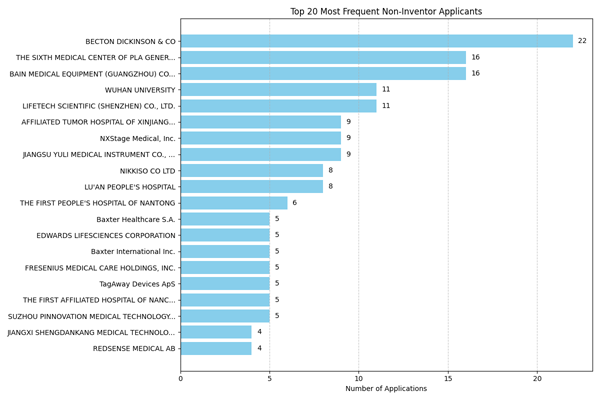
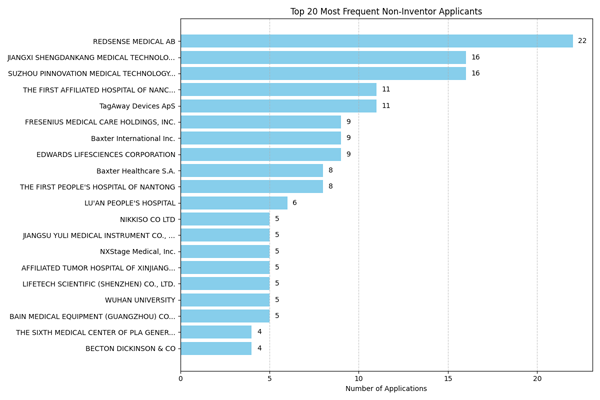
Additional analysis applicants prarallel coords

Changed region(s): [[0.0, 0.42, 0.3, 0.9], [0.0, 0.09, 0.3, 0.39]]

diff --git a/templates/home.html b/templates/home.html
@@ -43,6 +43,7 @@
     <br>
        <p style="font-size: 1.2em; line-height: 1.6;">
         This website is still under development, so for now, there is no need to log in to access advanced features. 
+        Please be patient with the generation time of the figures, currently, this web uses only basic cloud resources.
         In future versions, signing up will allow users to save their searches and prevent the automatic deletion of generated graphics.
         </p>
   </div>
@@ -81,19 +82,20 @@
 
     <!-- Word frequency stats Wordclouds -->
     <h3 style="margin-top: 2em; font-size: 1.5em;">Word frequency statistics: Wordclouds</h3>
+    <div style="display: flex; flex-wrap: wrap; gap: 1em;">
       <div style="flex: 1 1 48%;">
         <img src="{% static 'images/wcld_nouns_r.png' %}" alt="Noun Wordcloud"
-             style="width: 100%; border: 1px solid #ccc; border-radius: 6px;">
+             style="width: 90%; border: 1px solid #ccc; border-radius: 6px;">
         <p style="text-align: center;">Wordcloud (Nouns)</p>
       </div>
       <div style="flex: 1 1 48%;">
         <img src="{% static 'images/wcld_verbs_r.png' %}" alt="Verb Wordcloud"
-             style="width: 100%; border: 1px solid #ccc; border-radius: 6px;">
+             style="width: 90%; border: 1px solid #ccc; border-radius: 6px;">
         <p style="text-align: center;">Wordcloud (Verbs)</p>
       </div>
       <div style="flex: 1 1 48%;">
         <img src="{% static 'images/wcld_adjectives_r.png' %}" alt="Adjective Wordcloud"
-             style="width: 100%; border: 1px solid #ccc; border-radius: 6px;">
+             style="width: 70%; border: 1px solid #ccc; border-radius: 6px;">
         <p style="text-align: center;">Wordcloud (Adjectives)</p>
       </div>
     </div>
@@ -118,19 +120,26 @@
         <p style="text-align: center;">Top 20 Applicants</p>
       </div>
       <div style="flex: 1 1 48%;">
+    <div style="display: flex; flex-wrap: wrap; gap: 1em;">
+      <div style="flex: 1 1 48%;">
+        <img src="{% static 'images/Applicants_parallel_r.png' %}" alt="Top 5 Applicants timeline"
+             style="width: 100%; border: 1px solid #ccc; border-radius: 6px;">
+        <p style="text-align: center;">Top 5 Applicants patent publication timeline</p>
+      </div>
         <img src="{% static 'images/TopAppl_IPC_r.png' %}" alt="Most frequent IPC groups by Applicant"
              style="width: 100%; border: 1px solid #ccc; border-radius: 6px;">
         <p style="text-align: center;">Most frequent IPC groups by Applicant</p>
       </div>
-
+    </div>
 
     <!-- Tech Transfer Landscape -->
-    <h3 style="margin-top: 2em; font-size: 1.5em;">Tech Transfer Landscape</h3>
+    <h3 style="margin-top: 2em; font-size: 1.5em;">Technology Transfer Landscape</h3>
     <div style="display: flex; flex-wrap: wrap; gap: 1em;">
       <div style="flex: 1 1 48%;">
-        <img src="{% static 'images/network_plot_r.png' %}" alt="Inventor Transfer Network"
+        <img src="{% static 'images/network_plot.png' %}" alt="Inventor Transfer Network"
              style="width: 100%; border: 1px solid #ccc; border-radius: 6px;">
-        <p style="text-align: center;">Inventor movement between applicants</p>
+        <p style="text-align: center;">Flow of Technological Know-How Through Shared Inventors</p>
+        <p style="text-align: center;">Applicants in the graph may have further connections out of this circle</p>
       </div>
     </div>
   </div>

diff --git a/templates/pages/IPC_Applicants.html b/templates/pages/IPC_Applicants.html
@@ -33,6 +33,11 @@
     <img src="{{ topAppl_img }}" alt="Top 20 Applicants">
   {% endif %}
   <br>
+  {% if ParalleltopApp_img %}
+    <h2>Top Applicants most number of fillings per year</h2>
+    <img src="{{ ParalleltopApp_img }}" alt="TTop Applicants most number of fillings per year" style="max-width: 100%; height: auto;">
+  {% endif %}
+  <br>
   <br>
   {% if Appl_IPC_img %}
     <h2>Top Applicants most frequent IPC groups under which the patent documents are classified</h2>

diff --git a/pages/analytic_functions.py b/pages/analytic_functions.py
@@ -21,6 +21,7 @@ import networkx as nx
 import io
 from matplotlib.figure import Figure
 from matplotlib.backends.backend_agg import FigureCanvasAgg
+from fuzzywuzzy import fuzz
 
 #Import English stopwords from the nltk repository downloaded to the hard drive
 nltk.data.path.append("/usr/share/nltk_data")
@@ -507,7 +508,7 @@ class Patent_Analysis:
         Returns:
             A matplotlib figure showing top non-inventor applicants
         """
-        from fuzzywuzzy import fuzz
+        
         from collections import defaultdict
     
         # Create a list to hold all non-inventor applicants and their IPC codes
@@ -590,28 +591,26 @@ class Patent_Analysis:
         
         # Get the top N applicant groups by count
         self.top_applicants = sorted(group_counts.items(), key=lambda x: x[1], reverse=True)[:top_n]
-        # Extract names and counts for plotting
-        names = [name for name, _ in self.top_applicants]
-        counts = [count for _, count in self.top_applicants]
+        # Split names and counts
+        names, counts = zip(*self.top_applicants)
         
-        # Create the bar plot
+        # Reverse for horizontal bar chart (most frequent at top)
+        names = names[::-1]
+        counts = counts[::-1]
+        
+        # Plot
         plt.figure(figsize=(12, 8))
-        bars = plt.barh(np.arange(len(names))[::-1], counts, color='skyblue')
+        bars = plt.barh(np.arange(len(names)), counts, color='skyblue')
         
-        # Add count labels to the bars
+        # Add count labels
         for i, bar in enumerate(bars):
             plt.text(bar.get_width() + 0.3, bar.get_y() + bar.get_height()/2, 
                      str(counts[i]), va='center')
         
-        # Truncate long company names for display
-        display_names = []
-        for name in names:
-            if len(name) > 40:
-                display_names.append(name[:37] + '...')
-            else:
-                display_names.append(name)
+        # Truncate long names for display (optional)
+        display_names = [name if len(name) <= 40 else name[:37] + '...' for name in names]
         
-        # Set labels and title
+        # Format plot
         plt.yticks(np.arange(len(display_names)), display_names)
         plt.xlabel('Number of Applications')
         plt.title(f'Top {top_n} Most Frequent Non-Inventor Applicants')
@@ -620,33 +619,106 @@ class Patent_Analysis:
         
         # Return the figure
         return plt
-     
+        
+
+    def plot_applicant_parallel_coordinates(self, top_n=10, year_range=None):
+        """Create parallel coordinates plot for top non-inventor applicants showing absolute publication counts by year."""
+        if year_range is None:
+            current_year = datetime.now().year
+            year_range = (current_year - 20, current_year)     
+            
+        # Get top applicants if not already calculated
+        if not hasattr(self, 'top_applicants'):
+            self.get_top_non_inventor_applicants(top_n=top_n)
+        
+        sorted_applicants = sorted(self.top_applicants, key=lambda x: x[1], reverse=True)[:top_n]
+        top_applicants = [name for name, _ in sorted_applicants]
+        
+        # Filter publication years
+        all_years = sorted(self.filtered_data['PubYear'].dropna().unique().astype(int))
+        
+        if year_range:
+            start_year, end_year = year_range
+            all_years = [year for year in all_years if start_year <= year <= end_year]
+            if not all_years:
+                raise ValueError(f"No data available in the specified year range: {year_range}")
+    
+        # Create dataframe to hold counts
+        applicant_yearly_counts = pd.DataFrame(index=top_applicants, columns=all_years, data=0)
+        
+        # Count publications per applicant and year
+        for applicant in top_applicants:
+            applicant_patents = self.filtered_data[
+                self.filtered_data['Applicants'].str.contains(applicant, case=False, na=False)
+            ]
+            # Apply year range filter
+            if year_range:
+                applicant_patents = applicant_patents[
+                    applicant_patents['PubYear'].between(start_year, end_year)
+                ]
+            
+            yearly_counts = applicant_patents['PubYear'].value_counts().astype(int)
+            for year, count in yearly_counts.items():
+                if year in applicant_yearly_counts.columns:
+                    applicant_yearly_counts.at[applicant, year] = count
+        
+        # Plot
+        fig, host = plt.subplots(figsize=(15, 10))
+        colors = plt.cm.tab10.colors
+        
+        for i, applicant in enumerate(top_applicants):
+            data = applicant_yearly_counts.loc[applicant].values
+            x = np.linspace(0, len(all_years) - 1, len(all_years))
+            
+            verts = [(x[0], data[0])]
+            codes = [Path.MOVETO]
+            for j in range(1, len(x)):
+                x0, y0 = x[j - 1], data[j - 1]
+                x1, y1 = x[j], data[j]
+                ctrl1 = (x0 + (x1 - x0) / 3, y0)
+                ctrl2 = (x0 + 2 * (x1 - x0) / 3, y1)
+                verts.extend([ctrl1, ctrl2, (x1, y1)])
+                codes.extend([Path.CURVE4, Path.CURVE4, Path.CURVE4])
+            
+            path = Path(verts, codes)
+            patch = patches.PathPatch(path, facecolor='none', lw=3, edgecolor=colors[i % len(colors)], alpha=0.8)
+            host.add_patch(patch)
+
+
+
     def plot_applicant_ipc_bubble_chart(self, top_n=20):
         """
-        Plots a bubble chart of the top applicants and their IPC groups.
+        Plots a bubble chart of the top applicants and their IPC groups using fuzzy name matching.
     
         Args:
             top_n: Number of top applicants to display (default: 20)
         """
         # Get the top applicants
-        #self.get_top_non_inventor_applicants(top_n=top_n)
         top_applicants = self.top_applicants
+        top_names = [name for name, _ in top_applicants]
     
         # Create a dictionary to store IPC counts for each applicant
-        applicant_ipc_counts = {applicant: Counter() for applicant, _ in top_applicants}
+        applicant_ipc_counts = {applicant: Counter() for applicant in top_names}
     
-        # Count IPC groups for each applicant
+        # Count IPC groups for each applicant (with fuzzy matching)
         for _, row in self.filtered_data.iterrows():
             applicants = str(row['Applicants']) if not pd.isna(row['Applicants']) else ""
             ipc_codes = str(row['I P C']) if not pd.isna(row['I P C']) else ""
     
-            # Split by semicolons and strip whitespace
             applicant_list = [app.strip() for app in applicants.split(';') if app.strip()]
             ipc_list = [ipc.strip()[:4] for ipc in ipc_codes.split(';') if ipc.strip()]
     
             for applicant in applicant_list:
-                if applicant in applicant_ipc_counts:
-                    applicant_ipc_counts[applicant].update(ipc_list)
+                matched_applicant = None
+                max_score = 0
+                for known_applicant in top_names:
+                    score = fuzz.token_sort_ratio(applicant, known_applicant)
+                    if score > 75 and score > max_score:
+                        matched_applicant = known_applicant
+                        max_score = score
+    
+                if matched_applicant:
+                    applicant_ipc_counts[matched_applicant].update(ipc_list)
     
         # Get the top 20 IPC groups
         all_ipcs = []
@@ -665,15 +737,17 @@ class Patent_Analysis:
                     if max_count > 1:
                         color = plt.cm.coolwarm((count - 1) / (max_count - 1))
                     else:
-                        color = 'blue'  # Default color if max_count is 1
+                        color = 'blue'
                     plt.scatter(ipc, applicant, s=size, color=color, alpha=0.8, edgecolors='w')
     
         plt.xlabel('IPC Groups')
         plt.ylabel('Applicants')
-        plt.title('Bubble Chart of Top Applicants and IPC Groups')
+        plt.title('Bubble Chart of Top Applicants and IPC Groups (bubble color is warmer and size bigger when higher count)')
         plt.grid(True)
+        plt.gca().invert_yaxis()
         plt.tight_layout()
         return plt
+
 
 
 
@@ -753,7 +827,102 @@ class Patent_Analysis:
         plt.tight_layout()
         return plt
 
-
+    def plot_applicant_parallel_coordinates(self, top_n=10, year_range=None):
+        """Create parallel coordinates plot for top non-inventor applicants showing normalized publication counts by year."""
+        if year_range is None:
+            current_year = datetime.now().year
+            year_range = (current_year - 20, current_year)
+    
+        start_year, end_year = year_range
+    
+        # Ensure 'PubYear' is in integer format
+        self.filtered_data['PubYear'] = pd.to_numeric(self.filtered_data['PubYear'], errors='coerce').dropna().astype(int)
+    
+        # Get top applicants if not already calculated
+        if not hasattr(self, 'top_applicants'):
+            self.get_top_non_inventor_applicants(top_n=top_n)
+    
+        # Sort applicants by count and take top_n
+        sorted_applicants = sorted(self.top_applicants, key=lambda x: x[1], reverse=True)[:top_n]
+        top_applicants = [name for name, _ in sorted_applicants]
+    
+        # Filter years
+        all_years = sorted([year for year in self.filtered_data['PubYear'].unique() if start_year <= year <= end_year])
+        if not all_years:
+            raise ValueError("No valid publication years in the selected range")
+    
+        # Initialize dataframe with zeros
+        applicant_yearly_counts = pd.DataFrame(index=top_applicants, columns=all_years, data=0)
+    
+        # Count publications for each applicant by year using fuzzy match (≥75%)
+        for applicant in top_applicants:
+            matching_rows = self.filtered_data[
+                self.filtered_data['Applicants'].fillna('').apply(
+                    lambda x: fuzz.partial_ratio(x.lower(), applicant.lower()) >= 75
+                )
+            ]
+            yearly_counts = matching_rows['PubYear'].value_counts().astype(int)
+            for year, count in yearly_counts.items():
+                if year in applicant_yearly_counts.columns:
+                    applicant_yearly_counts.at[applicant, year] = count
+    
+        # Normalize counts per applicant between 0 and 1
+        normalized_counts = applicant_yearly_counts.div(applicant_yearly_counts.max(axis=1), axis=0).fillna(0)
+    
+        # Plotting
+        fig, host = plt.subplots(figsize=(15, 10))
+        colors = plt.cm.tab10.colors
+    
+        for i, applicant in enumerate(top_applicants):
+            data = normalized_counts.loc[applicant].values.astype(float)
+            x = np.linspace(0, len(all_years) - 1, len(all_years))
+    
+            # Bezier curve
+            verts = [(x[0], data[0])]
+            codes = [Path.MOVETO]
+            for j in range(1, len(x)):
+                x0, y0 = x[j - 1], data[j - 1]
+                x1, y1 = x[j], data[j]
+                ctrl1 = (x0 + (x1 - x0) / 3, y0)
+                ctrl2 = (x0 + 2 * (x1 - x0) / 3, y1)
+                verts.extend([ctrl1, ctrl2, (x1, y1)])
+                codes.extend([Path.CURVE4, Path.CURVE4, Path.CURVE4])
+    
+            path = Path(verts, codes)
+            patch = patches.PathPatch(path, facecolor='none', lw=3, edgecolor=colors[i % len(colors)], alpha=0.8)
+            host.add_patch(patch)
+    
+        # Axis and labels
+        host.set_xlim(0, len(all_years) - 1)
+        host.set_ylim(0, 1.05)
+        host.set_xticks(range(len(all_years)))
+        host.set_xticklabels(all_years, fontsize=10, rotation=45)
+        host.set_title(f'Top {top_n} Non-Inventor Applicants by Normalized Publication Count', fontsize=16, pad=20)
+        host.set_xlabel('Publication Year', fontsize=12)
+        host.set_ylabel('Normalized Publication Count (0–1)', fontsize=12)
+        host.grid(True, linestyle='--', alpha=0.6)
+    
+        # Legend
+        plt.subplots_adjust(right=0.7)
+        legend_entries = []
+        for i, (applicant, count) in enumerate(sorted_applicants):
+            display_name = applicant if len(applicant) <= 30 else applicant[:27] + '...'
+            legend_entries.append(f"{display_name} (Total: {count})")
+    
+        legend_patches = [
+            patches.Patch(color=colors[i % len(colors)], label=legend_entries[i])
+            for i in range(len(legend_entries))
+        ]
+    
+        host.legend(handles=legend_patches,
+                    title='Applicants with Total Publications',
+                    bbox_to_anchor=(1.05, 1),
+                    loc='upper left',
+                    borderaxespad=0.,
+                    fontsize=10)
+    
+        plt.tight_layout()
+        return plt
 
 
 class Patent_Network:

diff --git a/pages/views.py b/pages/views.py
@@ -247,6 +247,15 @@ class IPC_ApplicantsView(FormView):
             uploaded_Appl_IPC = upload(temp_Appl_IPC_path)
             Appl_IPC_img_url = uploaded_Appl_IPC['secure_url']
             os.remove(temp_Appl_IPC_path)
+
+            # Plot top 5 Applicants parallel coordinates
+            plt_ParalleltopAppl = analyzer.plot_applicant_parallel_coordinates(top_n=5, year_range=(start_year, end_year + 1))
+            filename_ParalleltopAppl = f"ParalleltopAppl{filename_suffix}.png"
+            temp_ParalleltopAppl_path = f"/tmp/{filename_ParalleltopAppl}"
+            plt_ParalleltopAppl.savefig(temp_ParalleltopAppl_path) # Save locally first
+            uploaded_ParalleltopAppl = upload(temp_ParalleltopAppl_path)
+            ParalleltopAppl_img_url = uploaded_ParalleltopAppl['secure_url']
+            os.remove(temp_ParalleltopAppl_path)
             
 
             extra_context = {
@@ -255,6 +264,7 @@ class IPC_ApplicantsView(FormView):
                 'top_ipcs_defs_img':defs_img_url,
                 'parallel_img': parallel_img_url, 
                 'topAppl_img': topAppl_img_url,
+                'ParalleltopApp_img':ParalleltopAppl_img_url,
                 'Appl_IPC_img': Appl_IPC_img_url
                 } 
             
